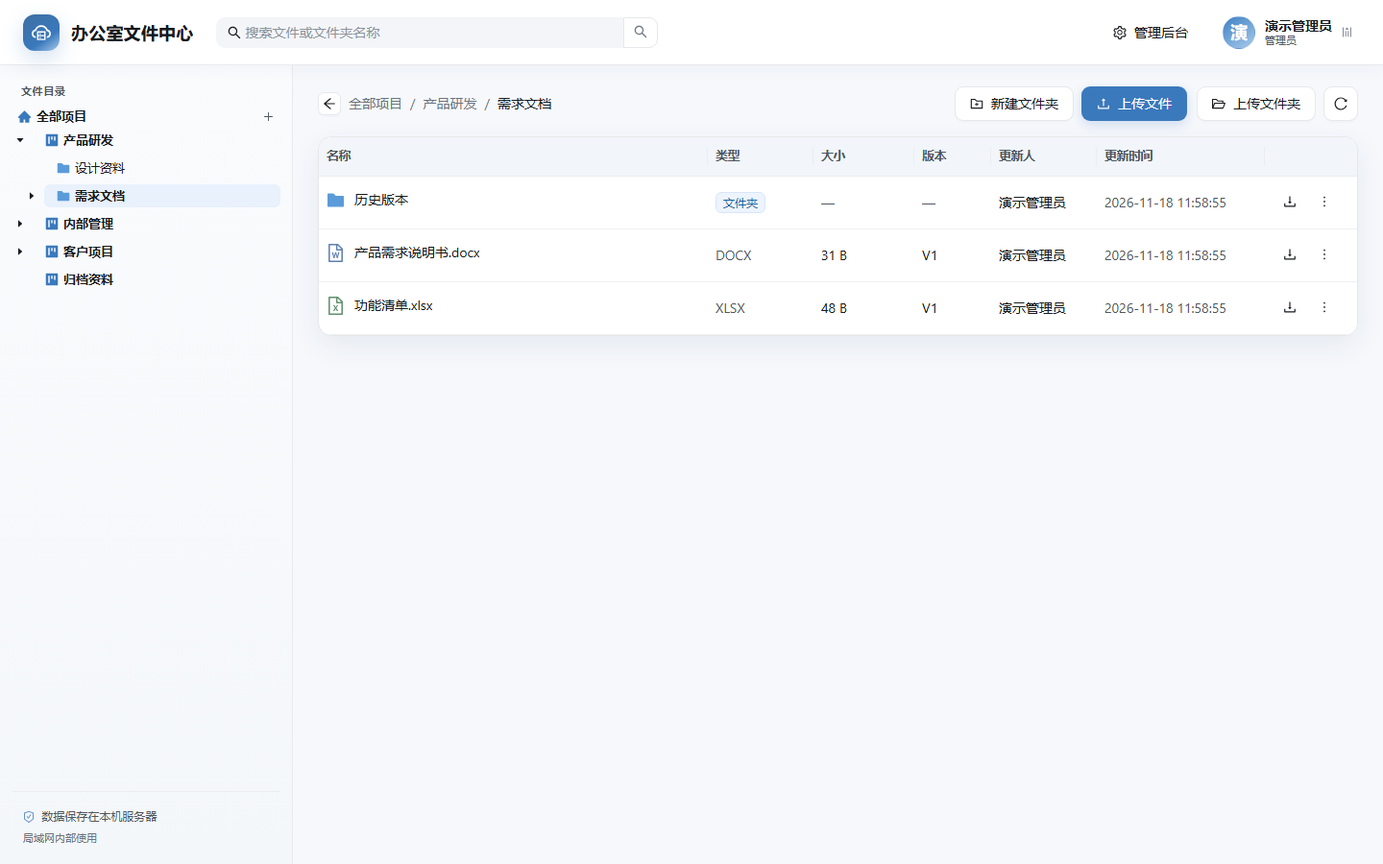
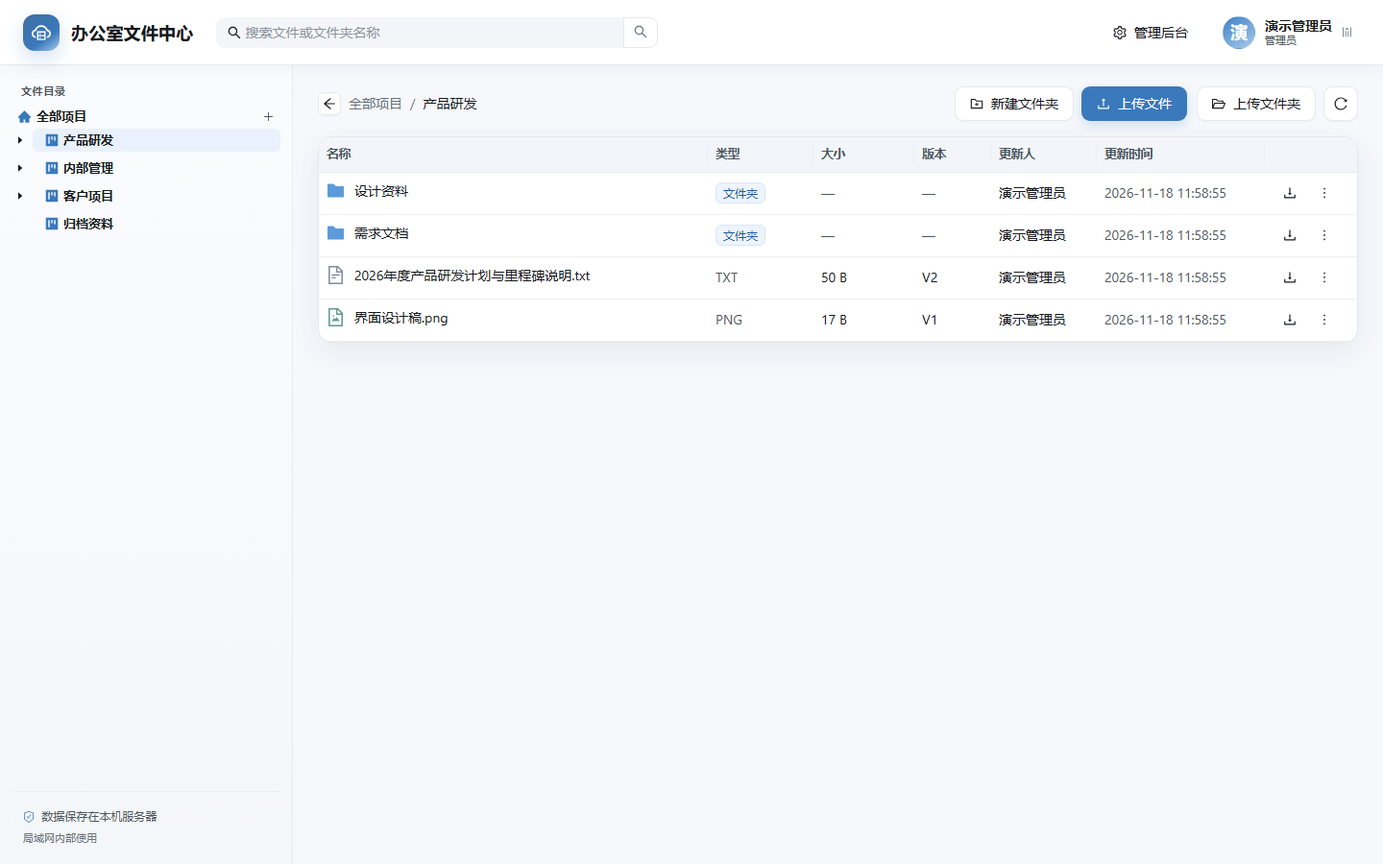
发布 0.2.6：文件列表行高压缩

diff --git a/internal/webui/dist/assets/index-TZi6lLFV.css b/internal/webui/dist/assets/index-TZi6lLFV.css
@@ -1,0 +1,1 @@
+html,body{width:100%;height:100%}input::-ms-clear,input::-ms-reveal{display:none}*,*:before,*:after{box-sizing:border-box}html{font-family:sans-serif;line-height:1.15;-webkit-text-size-adjust:100%;-ms-text-size-adjust:100%;-ms-overflow-style:scrollbar;-webkit-tap-highlight-color:rgba(0,0,0,0)}@-ms-viewport{width:device-width}body{margin:0}[tabindex="-1"]:focus{outline:none}hr{box-sizing:content-box;height:0;overflow:visible}h1,h2,h3,h4,h5,h6{margin-top:0;margin-bottom:.5em;font-weight:500}p{margin-top:0;margin-bottom:1em}abbr[title],abbr[data-original-title]{-webkit-text-decoration:underline dotted;text-decoration:underline dotted;border-bottom:0;cursor:help}address{margin-bottom:1em;font-style:normal;line-height:inherit}input[type=text],input[type=password],input[type=number],textarea{-webkit-appearance:none}ol,ul,dl{margin-top:0;margin-bottom:1em}ol ol,ul ul,ol ul,ul ol{margin-bottom:0}dt{font-weight:500}dd{margin-bottom:.5em;margin-left:0}blockquote{margin:0 0 1em}dfn{font-style:italic}b,strong{font-weight:bolder}small{font-size:80%}sub,sup{position:relative;font-size:75%;line-height:0;vertical-align:baseline}sub{bottom:-.25em}sup{top:-.5em}pre,code,kbd,samp{font-size:1em;font-family:SFMono-Regular,Consolas,Liberation Mono,Menlo,Courier,monospace}pre{margin-top:0;margin-bottom:1em;overflow:auto}figure{margin:0 0 1em}img{vertical-align:middle;border-style:none}a,area,button,[role=button],input:not([type=range]),label,select,summary,textarea{touch-action:manipulation}table{border-collapse:collapse}caption{padding-top:.75em;padding-bottom:.3em;text-align:left;caption-side:bottom}input,button,select,optgroup,textarea{margin:0;color:inherit;font-size:inherit;font-family:inherit;line-height:inherit}button,input{overflow:visible}button,select{text-transform:none}button,html [type=button],[type=reset],[type=submit]{-webkit-appearance:button}button::-moz-focus-inner,[type=button]::-moz-focus-inner,[type=reset]::-moz-focus-inner,[type=submit]::-moz-focus-inner{padding:0;border-style:none}input[type=radio],input[type=checkbox]{box-sizing:border-box;padding:0}input[type=date],input[type=time],input[type=datetime-local],input[type=month]{-webkit-appearance:listbox}textarea{overflow:auto;resize:vertical}fieldset{min-width:0;margin:0;padding:0;border:0}legend{display:block;width:100%;max-width:100%;margin-bottom:.5em;padding:0;color:inherit;font-size:1.5em;line-height:inherit;white-space:normal}progress{vertical-align:baseline}[type=number]::-webkit-inner-spin-button,[type=number]::-webkit-outer-spin-button{height:auto}[type=search]{outline-offset:-2px;-webkit-appearance:none}[type=search]::-webkit-search-cancel-button,[type=search]::-webkit-search-decoration{-webkit-appearance:none}::-webkit-file-upload-button{font:inherit;-webkit-appearance:button}output{display:inline-block}summary{display:list-item}template{display:none}[hidden]{display:none!important}mark{padding:.2em;background-color:#feffe6}*{box-sizing:border-box}html,body,#root{height:100%}body{margin:0;background:#f6f8fc;color:#171a1e;font-family:Segoe UI,Microsoft YaHei,PingFang SC,-apple-system,BlinkMacSystemFont,sans-serif;-webkit-font-smoothing:antialiased}a{color:#3a79bc}.muted{color:#4f5761}.boot-screen{min-height:100vh;display:flex;flex-direction:column;align-items:center;justify-content:center;gap:18px;background:radial-gradient(circle at 30% 20%,#f1f4f9 0,#fafbfe 45%,#f6f8fc)}.boot-logo{width:64px;height:64px;border-radius:20px;display:grid;place-items:center;color:#fff;font-size:30px;background:linear-gradient(145deg,#3f6fa3,#3a79bc 60%,#a8cbeb);box-shadow:0 16px 40px #3250733d}.auth-page{min-height:100vh;padding:32px 20px;display:grid;place-items:center;background:radial-gradient(circle at 12% 10%,rgba(58,121,188,.16),transparent 42%),radial-gradient(circle at 86% 88%,rgba(150,170,190,.12),transparent 40%),linear-gradient(160deg,#f2f6fc,#fafbfe 55%,#f1f6fc)}.auth-card{width:min(920px,100%);display:grid;grid-template-columns:380px minmax(0,1fr);background:#fff;border-radius:24px;overflow:hidden;box-shadow:0 32px 80px #233c5f1f}.auth-brand{position:relative;padding:46px 38px;color:#fff;display:flex;flex-direction:column;gap:28px;background:radial-gradient(circle at 82% 12%,rgba(255,255,255,.22),transparent 36%),linear-gradient(155deg,#365f8a,#3f80c4 58%,#a8cbeb)}.auth-brand:after{content:"";position:absolute;right:-70px;bottom:-90px;width:240px;height:240px;border-radius:50%;background:#ffffff14}.auth-logo{width:52px;height:52px;border-radius:16px;display:grid;place-items:center;font-size:26px;background:#ffffff29;border:1px solid rgba(255,255,255,.24)}.auth-brand-name{font-size:22px;font-weight:700;letter-spacing:.5px}.auth-brand-sub{margin-top:6px;font-size:13px;opacity:.82}.auth-points{display:flex;flex-direction:column;gap:14px;margin-top:12px;font-size:14px}.auth-points .anticon{margin-right:8px;opacity:.9}.auth-foot{margin-top:auto;font-size:12px;line-height:1.8;opacity:.72}.auth-form{padding:50px 46px 40px}.auth-form h3{margin-bottom:6px!important}.auth-note{display:block;margin-top:20px;font-size:12px}.app-shell{height:100vh;min-height:100vh;overflow:hidden}.app-header{height:68px;line-height:normal;padding:0 24px;display:flex;align-items:center;gap:24px;background:#fff;border-bottom:1px solid #e8eaed;box-shadow:0 2px 18px #233c5f0d;z-index:10}.header-left{flex:0 0 auto}.brand{display:flex;align-items:center;gap:12px;cursor:pointer;-webkit-user-select:none;user-select:none}.brand-mark{width:38px;height:38px;border-radius:12px;display:grid;place-items:center;color:#fff;font-size:20px;background:linear-gradient(145deg,#3f6fa3,#3a79bc 65%,#a8cbeb);box-shadow:0 8px 22px #3a79bc38}.brand-name{font-size:18px;font-weight:700;color:#171a1e;letter-spacing:.2px;max-width:280px;overflow:hidden;text-overflow:ellipsis;white-space:nowrap}.header-search{flex:1;max-width:460px}.header-search .ant-input-affix-wrapper{background:#f3f5f8;border-color:transparent;border-radius:10px}.header-search .ant-input-affix-wrapper-focused{background:#fff;border-color:#a7c0dc;box-shadow:0 0 0 3px #3a79bc29}.header-right{margin-left:auto;display:flex;align-items:center;gap:12px}.user-chip{display:flex;align-items:center;gap:10px;border:0;background:transparent;padding:4px 8px;border-radius:12px;cursor:pointer;transition:background .2s}.user-chip:hover{background:#f3f5f8}.user-avatar{background:linear-gradient(145deg,#3f80c4,#a8cbeb)!important;font-weight:600}.user-meta{display:flex;flex-direction:column;align-items:flex-start;line-height:1.25}.user-name{font-size:14px;font-weight:600;color:#171a1e}.user-role{font-size:11px;color:#4f5761}.user-caret{font-size:11px;color:#6b7480}.app-body{height:calc(100vh - 68px)}.app-sider{border-right:1px solid #e8eaed;padding:18px 12px 14px;overflow:hidden;background:linear-gradient(180deg,#fafbfd,#f4f7fa)}.app-sider .ant-layout-sider-children{display:flex;flex-direction:column;height:100%}.folder-tree{flex:1;min-height:0;display:flex;flex-direction:column;overflow:auto;user-select:none;-webkit-user-select:none}.folder-tree-title{padding:0 10px 6px;font-size:11px;font-weight:600;letter-spacing:.6px;color:#4f5761;text-transform:uppercase}.folder-tree-root{display:flex;align-items:center;width:100%;min-height:24px;margin-bottom:1px;border-radius:6px;transition:background .2s}.folder-tree-root:hover{background:#f2f4f7}.folder-tree-root.selected{background:#e8f1fc}.folder-tree-root-main{flex:1;min-width:0;display:flex;align-items:center;gap:6px;min-height:24px;padding:0 0 0 7px;border:0;border-radius:6px;background:transparent;color:#171a1e;font-family:inherit;font-size:13px;font-weight:600;text-align:left;cursor:pointer}.folder-tree-root.selected .folder-tree-root-main{color:#1f5c9e}.folder-tree-root-add{flex:0 0 auto;display:grid;place-items:center;width:18px;height:18px;margin-right:4px;padding:0;border:0;border-radius:5px;background:transparent;color:#4f5761;font-size:11px;cursor:pointer;transition:background .15s,color .15s}.folder-tree-root-add:hover{background:#3a79bc1a;color:#1f5c9e}.folder-tree-project{font-weight:600;color:#171a1e}.folder-tree-loading{padding:16px;text-align:center}.folder-tree .ant-tree{background:transparent;font-size:13px}.folder-tree .ant-tree-indent-unit{width:12px}.folder-tree .ant-tree-switcher{width:18px;line-height:24px}.folder-tree .ant-tree-treenode{padding-bottom:1px}.folder-tree .ant-tree-node-content-wrapper{border-radius:6px;min-height:24px;line-height:24px}.folder-tree .ant-tree-iconEle{width:18px}.folder-tree .ant-tree-iconEle .anticon{font-size:14px}.folder-tree .ant-tree-node-selected{background:#e8f1fc!important;color:#1f5c9e;font-weight:600}.context-menu{position:fixed;z-index:1100;min-width:190px;padding:4px;background:#fff;border:1px solid #e8eaed;border-radius:10px;box-shadow:0 14px 36px #19283c29}.context-menu .ant-menu{border-inline-end:0!important;background:transparent;box-shadow:none}.context-menu .ant-menu-item{height:32px;line-height:32px;margin-block:1px;border-radius:6px}.admin-nav .ant-menu{border-inline-end:0!important;background:transparent}.admin-nav .ant-menu-item{border-radius:9px;height:42px;line-height:42px;margin-inline:4px}.admin-nav .ant-menu-item-selected{background:#e8f1fc!important;color:#1f5c9e;font-weight:600}.sider-foot{margin-top:auto;padding:16px 12px 4px;border-top:1px solid #ebedf0}.security-hint{display:flex;flex-direction:column;gap:4px;font-size:12px;line-height:1.6;color:#4f5761}.security-hint .anticon{color:#5f8fc7;margin-right:4px}.sider-version{font-size:11px;color:#6b7480}.app-content{padding:22px 26px 30px;overflow:auto;min-width:0;background:#f6f8fc}.ant-btn-primary{box-shadow:0 4px 12px #3a79bc33}.ant-btn-primary:not(:disabled):hover{box-shadow:0 6px 16px #3a79bc42}.file-browser{position:relative;min-height:100%}.browser-toolbar{display:flex;align-items:center;justify-content:space-between;gap:16px;flex-wrap:wrap;margin-bottom:16px}.browser-location{min-width:0;flex:1}.browser-location .ant-breadcrumb{font-size:14px}.browser-location .ant-breadcrumb a{cursor:pointer}.file-table .ant-table{background:#fff;border:1px solid #e6e7e9;border-radius:14px;overflow:hidden;box-shadow:0 10px 30px #233c5f14;-webkit-user-select:none;user-select:none}.file-table .ant-table.ant-table-middle .ant-table-thead>tr>th.ant-table-cell{border-bottom:1px solid #ebedf0;font-weight:600;font-size:12.5px;padding-top:8px;padding-bottom:8px}.file-table .ant-table.ant-table-middle .ant-table-tbody>tr>td.ant-table-cell{border-bottom:1px solid #eff0f2;padding-top:3.5px;padding-bottom:3.5px}.file-table .ant-table-tbody>tr{cursor:pointer}.file-table .ant-table-tbody>tr:hover>td{background:#f6f8fb!important}.file-name{display:inline-flex;align-items:center;gap:10px;cursor:pointer;max-width:100%;min-width:0}.file-name-text{overflow:hidden;text-overflow:ellipsis;white-space:nowrap;transition:color .2s}.file-name:hover .file-name-text{color:#3a79bc}.empty-block{padding:46px 0 40px}.drop-overlay{position:absolute;top:-8px;right:-8px;bottom:-8px;left:-8px;z-index:20;border:2px dashed #5f8fc7;border-radius:18px;background:#eef4fbe0;-webkit-backdrop-filter:blur(3px);backdrop-filter:blur(3px);display:flex;flex-direction:column;align-items:center;justify-content:center;gap:12px;color:#3a79bc;font-size:16px;font-weight:600;pointer-events:none}.drop-overlay .anticon{font-size:44px}.drop-overlay .drop-hint{font-size:13px;font-weight:400;color:#4d5e72}.conflict-summary{display:flex;align-items:flex-start;gap:14px;padding:14px 16px;border-radius:12px;background:#f4f7fb;border:1px solid #dfe8f3}.admin-page{max-width:1480px;margin:0 auto}.loading-center{display:grid;place-items:center;min-height:320px}.page-heading{display:flex;align-items:flex-end;justify-content:space-between;gap:18px;flex-wrap:wrap;margin-bottom:18px}.page-heading h1{margin:0 0 4px;font-size:24px;font-weight:700;color:#171a1e;letter-spacing:.2px}.page-heading p{margin:0;color:#4f5761;font-size:13.5px}.admin-page .ant-card{border:1px solid #e6e7e9;border-radius:14px;box-shadow:0 8px 26px #233c5f12}.filter-card{margin-bottom:16px}.filter-card .ant-card-body{padding:16px 18px 2px}.filter-card .ant-form-inline .ant-form-item{margin-bottom:14px}.stat-grid .ant-card{height:100%}.stat-grid .ant-statistic-title{font-size:13px;color:#4f5761}.stat-grid .ant-statistic-content{font-size:24px;font-weight:700;color:#171a1e}.stat-grid .ant-statistic-content-prefix{color:#5f8fc7;margin-right:8px;font-size:20px}.stat-foot{margin-top:8px;font-size:12px;color:#4f5761}.user-avatar-small{width:34px;height:34px;border-radius:10px;display:grid;place-items:center;background:#f2f4f7;color:#3a79bc;font-size:16px}.forced-page{min-height:100vh;display:flex;align-items:center;justify-content:center;background:radial-gradient(circle at 20% 10%,rgba(58,121,188,.16),transparent 45%),linear-gradient(160deg,#f2f6fc,#fafbfe 60%,#f1f6fc)}.forced-card{width:min(460px,calc(100% - 40px));text-align:center;background:#ffffffd1;border:1px solid #e8eaed;padding:42px 36px 30px;border-radius:22px;box-shadow:0 26px 70px #232a341f;display:flex;flex-direction:column;align-items:center;gap:14px}.forced-card .boot-logo{margin-bottom:4px}.forced-card h2{margin:0;font-size:22px;color:#171a1e}.forced-card p{margin:0 0 6px;color:#4f5761;font-size:14px;line-height:1.7}@media(max-width:1000px){.auth-card{grid-template-columns:1fr;max-width:520px}.auth-brand{display:none}.auth-form{padding:38px 32px 32px}.user-meta{display:none}.brand-name{max-width:180px}}@media(max-width:760px){.header-search,.app-sider{display:none}.app-content{padding:16px 14px 24px}.app-header{padding:0 14px;gap:12px}}.details-drawer .ant-drawer-content-wrapper{max-width:100vw}

diff --git a/internal/webui/dist/index.html b/internal/webui/dist/index.html
@@ -5,8 +5,8 @@
     <meta name="viewport" content="width=device-width, initial-scale=1.0" />
     <meta name="theme-color" content="#1f5eff" />
     <title>办公室文件中心</title>
-    <script type="module" crossorigin src="/assets/index-mTqbJk9e.js"></script>
-    <link rel="stylesheet" crossorigin href="/assets/index-yzvabCeU.css">
+    <script type="module" crossorigin src="/assets/index-QBLVXT7d.js"></script>
+    <link rel="stylesheet" crossorigin href="/assets/index-TZi6lLFV.css">
   </head>
   <body>
     <div id="root"></div>

diff --git a/web/src/styles.css b/web/src/styles.css
@@ -541,14 +541,14 @@ a {
   border-bottom: 1px solid #ebedf0;
   font-weight: 600;
   font-size: 12.5px;
-  padding-top: 10px;
-  padding-bottom: 10px;
+  padding-top: 8px;
+  padding-bottom: 8px;
 }
 
 .file-table .ant-table.ant-table-middle .ant-table-tbody > tr > td.ant-table-cell {
   border-bottom: 1px solid #eff0f2;
-  padding-top: 9px;
-  padding-bottom: 9px;
+  padding-top: 3.5px;
+  padding-bottom: 3.5px;
 }
 
 .file-table .ant-table-tbody > tr {

diff --git a/docs/更新日志.md b/docs/更新日志.md
@@ -1,6 +1,6 @@
 # 更新日志 — 办公室文件中心（LanFilePlatform）
 
-当前版本：**0.2.5**  
+当前版本：**0.2.6**  
 最后更新：2026-11-18
 
 ## 记录规则
@@ -25,15 +25,16 @@
[6 lines of base64/hex data omitted]
 
[1 lines of base64/hex data omitted]
 
 ## 部署状态与待验证
 
-- 最后可查部署记录为办公主机运行 0.1.0；2026-11-18 文档整理未连接正式服务核验，不能据此认定现场仍是该版本或已经升级。安装 0.2.5 后才包含字体对比度增强；安装 0.2.4 后才包含移动弹窗的展开和完整路径调整；安装 0.2.3 才包含目录树展开状态、禁止拖动划词和 305px 侧栏的修复/调整。升级时保持原数据目录（默认 `D:\LanFileData`）和端口（默认 `9443`），升级前先做手动备份并保留旧发布包。
-- 当前发布版本为 0.2.5；0.2.4 及更早发布包保持原样。0.2.5 包内包含字体对比度调整及对应文档修订。
-- 仍需在真实环境验证：员工电脑证书信任、15 人并发、接近 2 GB 单文件上传、定时备份真实触发、完整恢复演练，以及 0.2.5 在办公主机和员工电脑上的回归。
+- 最后可查部署记录为办公主机运行 0.1.0；2026-11-18 文档整理未连接正式服务核验，不能据此认定现场仍是该版本或已经升级。安装 0.2.6 后才包含文件列表行高压缩；安装 0.2.5 后才包含字体对比度增强；安装 0.2.4 后才包含移动弹窗的展开和完整路径调整；安装 0.2.3 才包含目录树展开状态、禁止拖动划词和 305px 侧栏的修复/调整。升级时保持原数据目录（默认 `D:\LanFileData`）和端口（默认 `9443`），升级前先做手动备份并保留旧发布包。
+- 当前发布版本为 0.2.6；0.2.5 及更早发布包保持原样。0.2.6 包内包含行高调整及对应文档修订。
+- 仍需在真实环境验证：员工电脑证书信任、15 人并发、接近 2 GB 单文件上传、定时备份真实触发、完整恢复演练，以及 0.2.6 在办公主机和员工电脑上的回归。
 
 ---
 
@@ -259,4 +260,35 @@
 - `dist\LanFileServer.exe`（14,125,568 字节，`-version` 输出 `0.2.5`）  
[1 lines of base64/hex data omitted]
 - 0.2.4 及更早发布包保持原样；0.2.5 可回退到 0.2.4。
+
+---
+
+## 0.2.6（2026-11-18）文件列表行高压缩
+
+### 变更
+
+- 主界面文件列表表头的上下内边距由 10px 调整为 8px，数据行上下内边距由 9px 调整为 3.5px；行高由约 55px 降到约 44px，约减少 20%，同屏可显示更多文件。
+- 列宽、列间距、左右内边距和时间/操作列保持 0.2.5 原样：类型 110、大小 105、版本 80、更新人 110、更新时间 175、操作 96。
+- 改动位置：仅 `web/src/styles.css` 的 `.file-table` 行内边距；不改后端、接口、数据和列定义。
+
+### 原因
+
+- 用户希望文件多时同屏显示更多行。此前误改的列宽/列间距已全部回滚，最终只保留行高调整。
+
+### 验证
+
+- 实际环境：Windows 11（10.0.26200）、Node.js 24.19.0、npm 11.17.0、Chromium/Edge 143.0.3650.75；独立演示实例 `127.0.0.1:18085`，临时数据目录 `D:\LanFilePlatformFontDemo\data`。
+- `npm --prefix ./web run build`（含 `tsc --noEmit`）通过；`GOPROXY=https://goproxy.cn,direct go test ./...` 全部通过。
+- 浏览器在 1440×900 和 1920×1080 下实测：数据行高度均为 44px；列宽保持 110/105/80/110/175/96，左右内边距仍为 8px；文件夹、文件、更新时间、更新人和操作按钮显示正常。
+- 证据截图：`<交付物目录>\ui-screenshots\row-density\file-list-1440.png`、`file-list-1920.png`。
+- 使用最终包在 `127.0.0.1:18085` 独立启动抽检：数据行高度 44px，列宽保持 110/105/80/110/175/96，左右内边距仍为 8px；包内 EXE `-version` 和 `VERSION.txt` 均为 `0.2.6`。证据：`<交付物目录>\ui-screenshots\row-density\package-0.2.6-check.png`。
+
+### 发布
+
+- 使用 `pwsh -NoProfile -File .\installer\build.ps1 -Version 0.2.6` 构建发布包。
+- `release\LanFilePlatform-0.2.6.zip`（6,007,515 字节）  
[1 lines of base64/hex data omitted]
+- `dist\LanFileServer.exe`（14,125,568 字节，`-version` 输出 `0.2.6`）  
[1 lines of base64/hex data omitted]
+- 0.2.5 及更早发布包保持原样；0.2.6 可回退到 0.2.5。
 

diff --git a/docs/验收记录.md b/docs/验收记录.md
@@ -1,10 +1,10 @@
 # 验收记录
 
-当前发布版本：0.2.5；文档整理日期：2026-11-18。
+当前发布版本：0.2.6；文档整理日期：2026-11-18。
 
 ## 验收口径与阅读顺序
 
-- 第 1～7 节保留 0.1.0 阶段的历史记录，包含 2026-11-13 首次验收及后续同版本迭代补记；不代表这些项目都在 11 月 13 日验证，也不代表 0.2.5 已完整复测。
+- 第 1～7 节保留 0.1.0 阶段的历史记录，包含 2026-11-13 首次验收及后续同版本迭代补记；不代表这些项目都在 11 月 13 日验证，也不代表 0.2.6 已完整复测。
 - 第 8 节按版本索引现有证据；第 9～10 节是今后的回归/发布检查清单，不是已通过结果；第 11 节只记录本轮维护实际验证。
 - 证据必须区分：历史记录、本轮执行、代码核查、待现场确认。构建成功不等于浏览器功能通过，临时恢复成功不等于真实整机恢复通过。
 - 后续新增验收按日期和版本追加结果，写明环境、操作/命令、结果、产物标识及未验证项，不覆盖旧结果，不把未执行清单勾为通过。
@@ -181,8 +181,9 @@ LanFileServer.exe -restore "<备份目录>" -restore-to "D:\LanFilePlatformResto
 | 0.2.3 / 2026-11-18 | 前端类型检查/构建、Go 测试；1920/1366/1024 三档侧栏 305px、无页面横向溢出；目录树拖动无选区、点击导航正常；发布包 EXE 自报 0.2.3 | 见第 12 节；正式主机和员工电脑仍待确认 |
 | 0.2.4 / 2026-11-18 | 前端类型检查/构建、Go 测试；移动弹窗初始展开、完整路径和搜索回归；最终包 EXE 自报 0.2.4 | 见第 13 节；正式主机和员工电脑仍待确认 |
 | 0.2.5 / 2026-11-18 | 前端类型检查/构建、Go 测试；字体对比度在登录页和文件列表实测；最终包 EXE 自报 0.2.5 | 见第 14 节；正式主机和员工电脑仍待确认 |
+| 0.2.6 / 2026-11-18 | 前端类型检查/构建、Go 测试；文件列表行高 44px、列宽保持原样；最终包 EXE 自报 0.2.6 | 见第 15 节；正式主机和员工电脑仍待确认 |
 
-0.2.0～0.2.5 的变更记录显示该阶段为前端变更、无新增数据库迁移；仍需按具体原包、目标包和数据副本确认兼容，不把“存在旧包”理解成无条件回退。
+0.2.0～0.2.6 的变更记录显示该阶段为前端变更、无新增数据库迁移；仍需按具体原包、目标包和数据副本确认兼容，不把“存在旧包”理解成无条件回退。
 
 ## 9. 可重复的回归清单
 
@@ -315,3 +316,19 @@ LanFileServer.exe -restore "<备份目录>" -restore-to "D:\LanFilePlatformResto
 - 证据：`<交付物目录>\ui-screenshots\font-contrast\login-dark.png`、`file-list-root-dark.png`、`file-list-project-dark.png`、`file-list-nested-dark.png`、`package-0.2.5-check.png`。
[1 lines of base64/hex data omitted]
 - 未覆盖：未安装到正式主机或员工电脑；未做 15 人并发、接近 2 GB 上传、备份与恢复演练；本次为纯前端颜色调整，无数据库迁移。
+
+## 15. 2026-11-18 0.2.6 发布：文件列表行高压缩验证
+
+本次只压缩文件列表行高，作为 0.2.6 发布；列宽和左右间距保持 0.2.5 原样。
+
+- 日期 / 版本 / 源码标识：2026-11-18 / 0.2.6 / 源码版本以发布包记录为准。
+- 环境：Windows 11（10.0.26200）、Go 1.27.4、Node.js 24.19.0、npm 11.17.0、Chromium/Edge 143.0.3650.75；演示实例 `127.0.0.1:18085`（HTTP），临时数据目录 `D:\LanFilePlatformFontDemo\data`。
+- 变更：`web/src/styles.css` 中文件列表表头上下内边距 10px → 8px，数据行上下内边距 9px → 3.5px；行高约 55px → 44px（约 20%）。列宽、列间距和左右内边距未改。
+- 执行：`npm --prefix ./web run build`、`GOPROXY=https://goproxy.cn,direct go test ./...`；浏览器在 1440×900 和 1920×1080 下检查行高、列宽、文字和操作按钮。
+- 结果：
+  - 两档视口下数据行高度均为 44px；列宽保持 110/105/80/110/175/96，左右内边距仍为 8px。
+  - 文件夹、文件、更新时间、更新人和操作按钮显示正常，没有因行高压缩出现重叠或截断。
+  - 最终 0.2.6 包在 `127.0.0.1:18085` 独立启动抽检：数据行高度 44px，列宽保持 110/105/80/110/175/96，左右内边距仍为 8px；包内 EXE `-version` 与 `VERSION.txt` 均为 0.2.6。
+- 证据：`<交付物目录>\ui-screenshots\row-density\file-list-1440.png`、`file-list-1920.png`、`package-0.2.6-check.png`。
[1 lines of base64/hex data omitted]
+- 未覆盖：未安装到正式主机或员工电脑；未做 15 人并发、接近 2 GB 上传、备份与恢复演练；未改数据库。

diff --git a/docs/系统架构与维护.md b/docs/系统架构与维护.md
@@ -1,6 +1,6 @@
 # 系统架构与维护说明
 
-本文面向后续开发和维护人员，以当前源码为依据。产品版本为 **0.2.5**；2026-11-18 已按该版本完成前端构建、Go 测试和发布包核对，未现场核实正式主机。历史验收结论不自动适用于当前源码或现场环境。
+本文面向后续开发和维护人员，以当前源码为依据。产品版本为 **0.2.6**；2026-11-18 已按该版本完成前端构建、Go 测试和发布包核对，未现场核实正式主机。历史验收结论不自动适用于当前源码或现场环境。
 
 ## 1. 设计目标
 
@@ -286,7 +286,7 @@ POST   /api/admin/backups/run                    A  异步请求，202 不代表
 
 每步失败即停，记录失败原因，不用最后一步的成功覆盖前面的失败。随后按 README 用独立开发数据目录、回环 HTTP 地址启动并做浏览器回归；发布前逐项完成[验收记录](验收记录.md)中的回归/发布检查和[管理员部署指南](管理员部署指南.md)的现场验收清单。
 
-发布只能使用 README 中显式 `-Version` 的新版本打包流程；脚本默认 `0.1.0` 且覆盖同版本包，禁止重打 0.2.2、0.2.3、0.2.4、0.2.5 或其他已发布标识来静默替换原哈希。脚本只构建和打包，不代跑测试。发布版本来自 `-X main.version=...`，源码默认值及 `web/package.json` 的 `0.1.0` 不代表最终发布版本；记录源码 commit（没有提交须明示）、锁文件、工具链、EXE/ZIP 哈希及实际验收结果，不承诺二进制位级重现。
+发布只能使用 README 中显式 `-Version` 的新版本打包流程；脚本默认 `0.1.0` 且覆盖同版本包，禁止重打 0.2.2、0.2.3、0.2.4、0.2.5、0.2.6 或其他已发布标识来静默替换原哈希。脚本只构建和打包，不代跑测试。发布版本来自 `-X main.version=...`，源码默认值及 `web/package.json` 的 `0.1.0` 不代表最终发布版本；记录源码 commit（没有提交须明示）、锁文件、工具链、EXE/ZIP 哈希及实际验收结果，不承诺二进制位级重现。
 
 ### 现有验证与缺口
 

diff --git a/README.md b/README.md
@@ -2,7 +2,7 @@
 
 面向十几人办公室的局域网文件版本管理平台。文件集中保存在一台长期开机的 Windows 主机上，员工用 Edge 或 Chrome 浏览器访问，不需要安装客户端。
 
-当前版本：**0.2.5**
+当前版本：**0.2.6**（文件列表行高压缩约 20%，同屏显示更多文件）
 
 ## 界面预览
 
@@ -88,7 +88,7 @@ docs/                    管理员、员工、维护文档与更新日志
 
 ## 主机部署
 
-1. 在 GitHub Releases 下载 `LanFilePlatform-0.2.5-public.zip`，解压到主机。
+1. 在 GitHub Releases 下载 `LanFilePlatform-0.2.6-public.zip`，解压到主机。
 2. 双击 `安装.cmd`，按提示填写数据目录和端口。默认数据目录 `D:\LanFileData`，默认端口 `9443`。
 3. 打开 `https://localhost:9443` 或 `https://<主机IP>:9443`，创建初始管理员。
 4. 在「管理后台 → 备份与系统」配置独立备份目录，并做一次手动备份。
@@ -160,10 +160,10 @@ npm run build
 ## 构建发布包
 
 ```powershell
-powershell -ExecutionPolicy Bypass -File .\installer\build.ps1 -Version 0.2.5
+powershell -ExecutionPolicy Bypass -File .\installer\build.ps1 -Version 0.2.6
 ```
 
-输出：`release\LanFilePlatform-0.2.5.zip`。解压后在主机双击 `安装.cmd`。
+输出：`release\LanFilePlatform-0.2.6.zip`。解压后在主机双击 `安装.cmd`。
 
 > 构建脚本中的 `SERVER` 示例地址为 `https://192.168.1.100:9443`，发布前请改成主机实际 IP，或在生成的 `一键信任证书.cmd` 中传入服务器地址。
 
@@ -196,4 +196,4 @@ powershell -ExecutionPolicy Bypass -File .\installer\build.ps1 -Version 0.2.5
 
 - 本仓库为公开版本，内网 IP、本机用户名和路径已脱敏；示例地址 `192.168.1.100` 仅用于说明，请替换为主机实际 IP。
 - 含真实账号姓名的界面截图和 Word 手册未上传到公开仓库。
-- 当前版本 0.2.5，发布包和可执行文件见 GitHub Releases。
+- 当前版本 0.2.6，发布包和可执行文件见 GitHub Releases。

diff --git a/docs/管理员部署指南.md b/docs/管理员部署指南.md
@@ -2,7 +2,7 @@
 
 本文面向负责安装和维护办公室文件中心的管理员。按照顺序完成即可。
 
-> 适用产品版本：**0.2.5**；文档修订日期：**2026-11-18**。本文按当前源码整理，不代表本轮已部署或完成现场验证。正式主机仅有 **0.1.0 的旧记录**，本轮未现场核验；历史测试不能替代当前主机验收。文中地址、路径和服务名为示例或默认值，执行前须核对实际配置。
+> 适用产品版本：**0.2.6**；文档修订日期：**2026-11-18**。本文按当前源码整理，不代表本轮已部署或完成现场验证。正式主机仅有 **0.1.0 的旧记录**，本轮未现场核验；历史测试不能替代当前主机验收。文中地址、路径和服务名为示例或默认值，执行前须核对实际配置。
 
 ## 1. 部署前准备
 
@@ -38,7 +38,7 @@
 
 ## 2. 安装
 
-1. 将发布包 `LanFilePlatform-0.2.5.zip` 解压到主机。
+1. 将发布包 `LanFilePlatform-0.2.6.zip` 解压到主机。
 2. 双击 `安装.cmd`，在 Windows 提示时选择“是”以管理员权限运行。
 3. 按提示确认：
    - 数据目录，默认 `D:\LanFileData`（可以改为其他独立磁盘路径）。

diff --git a/docs/员工使用说明.md b/docs/员工使用说明.md
@@ -1,6 +1,6 @@
 # 员工使用说明
 
-> 适用产品版本：**0.2.5**；文档修订日期：**2026-11-18**。请以管理员确认的实际部署版本和访问地址为准；界面与本文不同时先联系管理员确认，不要自行安装或升级主机程序。
+> 适用产品版本：**0.2.6**；文档修订日期：**2026-11-18**。请以管理员确认的实际部署版本和访问地址为准；界面与本文不同时先联系管理员确认，不要自行安装或升级主机程序。
 
 办公室文件中心用于把办公文件集中保存在主机上，并保留每一次更新。它类似内部网盘，不是自动同步盘：**在电脑上修改文件后，需要回到网页上传新版本**。
 
